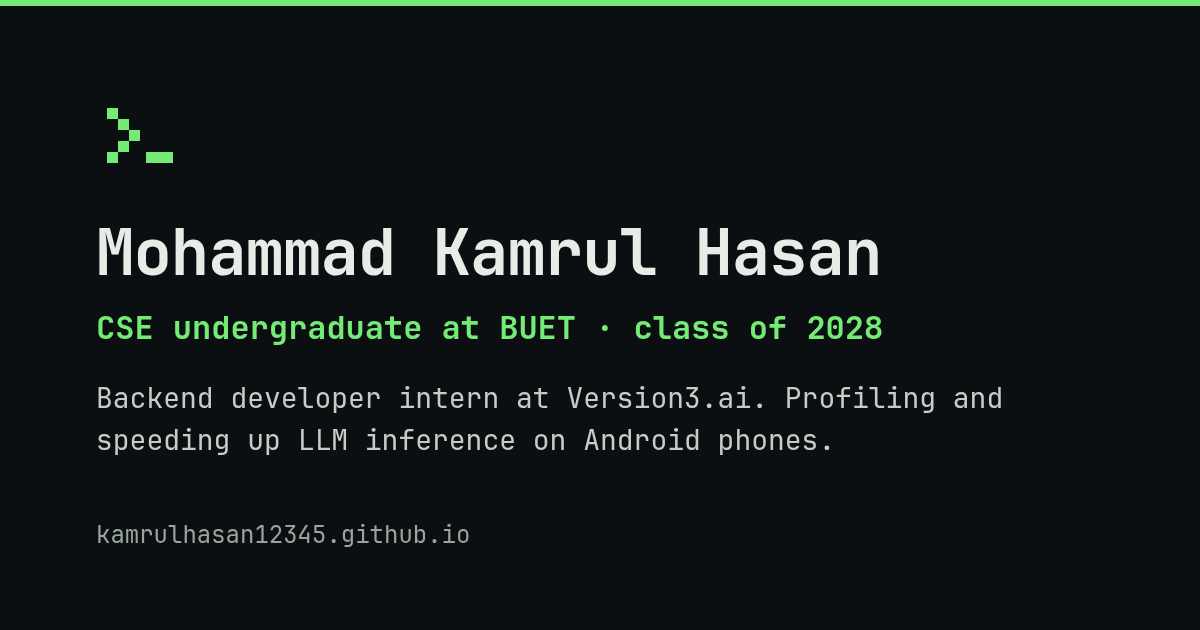
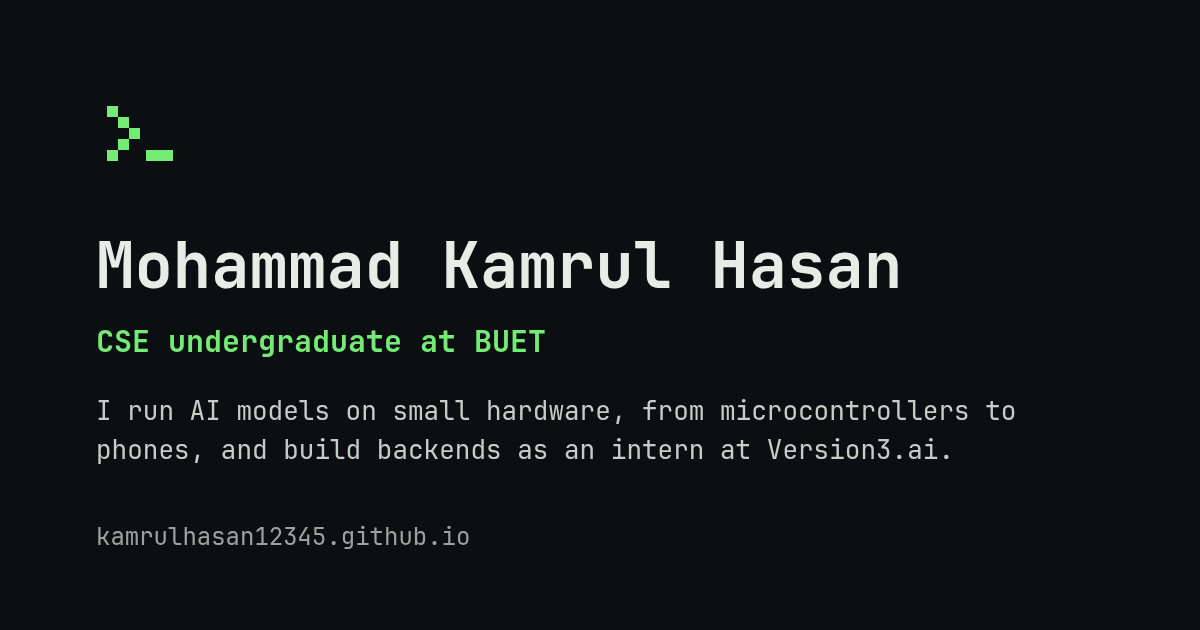
Publish prep: current social preview card (with its template), noindex on 404, Next.js in Edulytics stack

diff --git a/scripts/og.html b/scripts/og.html
@@ -1,0 +1,66 @@
+<!doctype html>
+<!--
+  Social preview card (public/og.png). Keep the text in step with profile in src/data/resume.ts.
+  Render: chromium --headless=new --hide-scrollbars --window-size=1200,630 --screenshot=public/og.png scripts/og.html
+-->
+<meta charset="utf-8" />
+<style>
+	@font-face {
+		font-family: "JetBrains Mono";
+		src: url("../src/assets/fonts/JetBrainsMono-Regular.woff2") format("woff2");
+		font-weight: 400;
+	}
+	@font-face {
+		font-family: "JetBrains Mono";
+		src: url("../src/assets/fonts/JetBrainsMono-Bold.woff2") format("woff2");
+		font-weight: 700;
+	}
+	html,
+	body {
+		margin: 0;
+		width: 1200px;
+		height: 630px;
+		overflow: hidden;
+		background: #0b0f12;
+		color: #c4cdc6;
+		font-family: "JetBrains Mono", monospace;
+	}
+	main {
+		padding: 84px 96px;
+	}
+	svg {
+		color: #74eb74;
+	}
+	h1 {
+		margin: 52px 0 0;
+		font-size: 64px;
+		line-height: 1.15;
+		color: #e6ece6;
+	}
+	.role {
+		margin: 18px 0 0;
+		font-size: 30px;
+		font-weight: 700;
+		color: #74eb74;
+	}
+	.intro {
+		margin: 30px 0 0;
+		font-size: 26px;
+		line-height: 1.5;
+		max-width: 1010px;
+	}
+	.url {
+		margin: 52px 0 0;
+		font-size: 24px;
+		color: #98a49d;
+	}
+</style>
+<main>
+	<svg viewBox="0 0 16 16" width="88" height="88" shape-rendering="crispEdges" aria-hidden="true">
+		<path fill="currentColor" d="M2 4h2v2H2zM4 6h2v2H4zM6 8h2v2H6zM4 10h2v2H4zM2 12h2v2H2zM9 12h5v2H9z"></path>
+	</svg>
+	<h1>Mohammad Kamrul Hasan</h1>
+	<p class="role">CSE undergraduate at BUET</p>
+	<p class="intro">I run AI models on small hardware, from microcontrollers to phones, and build backends as an intern at Version3.ai.</p>
+	<p class="url">kamrulhasan12345.github.io</p>
+</main>

diff --git a/src/data/resume.ts b/src/data/resume.ts
@@ -57,7 +57,7 @@ export const experience = [
 		org: "Edulytics",
 		when: "Dec 2025 — Mar 2026",
 		points: ["Built the mobile app MVP in React Native, and worked on their web app."],
-		stack: ["React Native", "TypeScript"],
+		stack: ["React Native", "Next.js", "TypeScript"],
 	},
 ];
 
